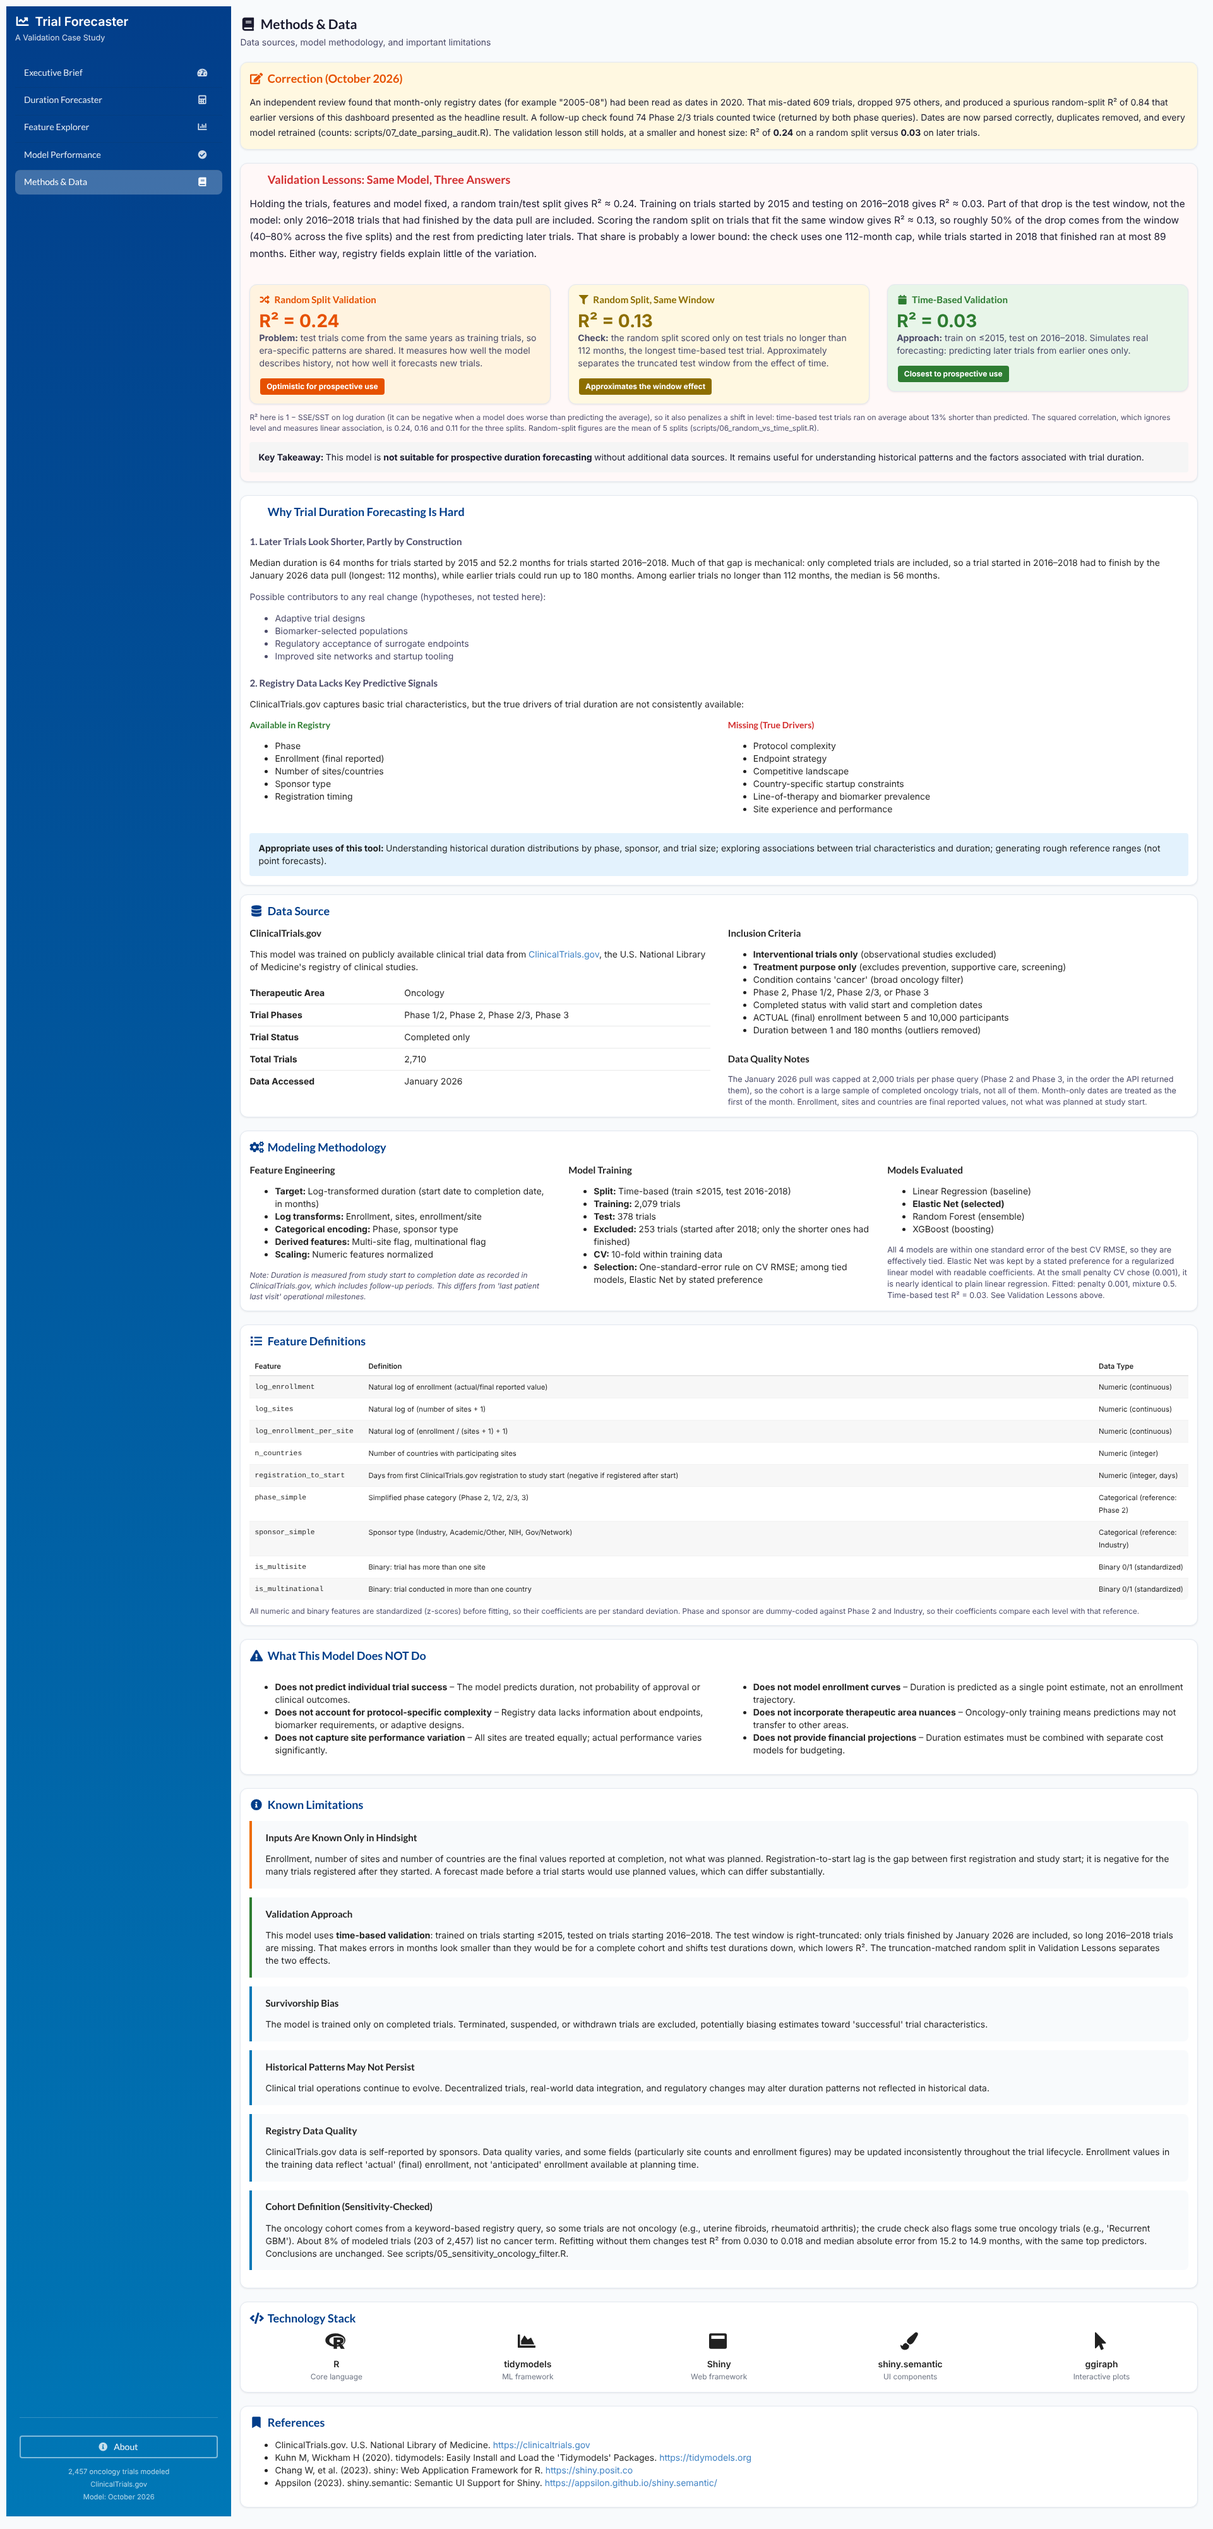
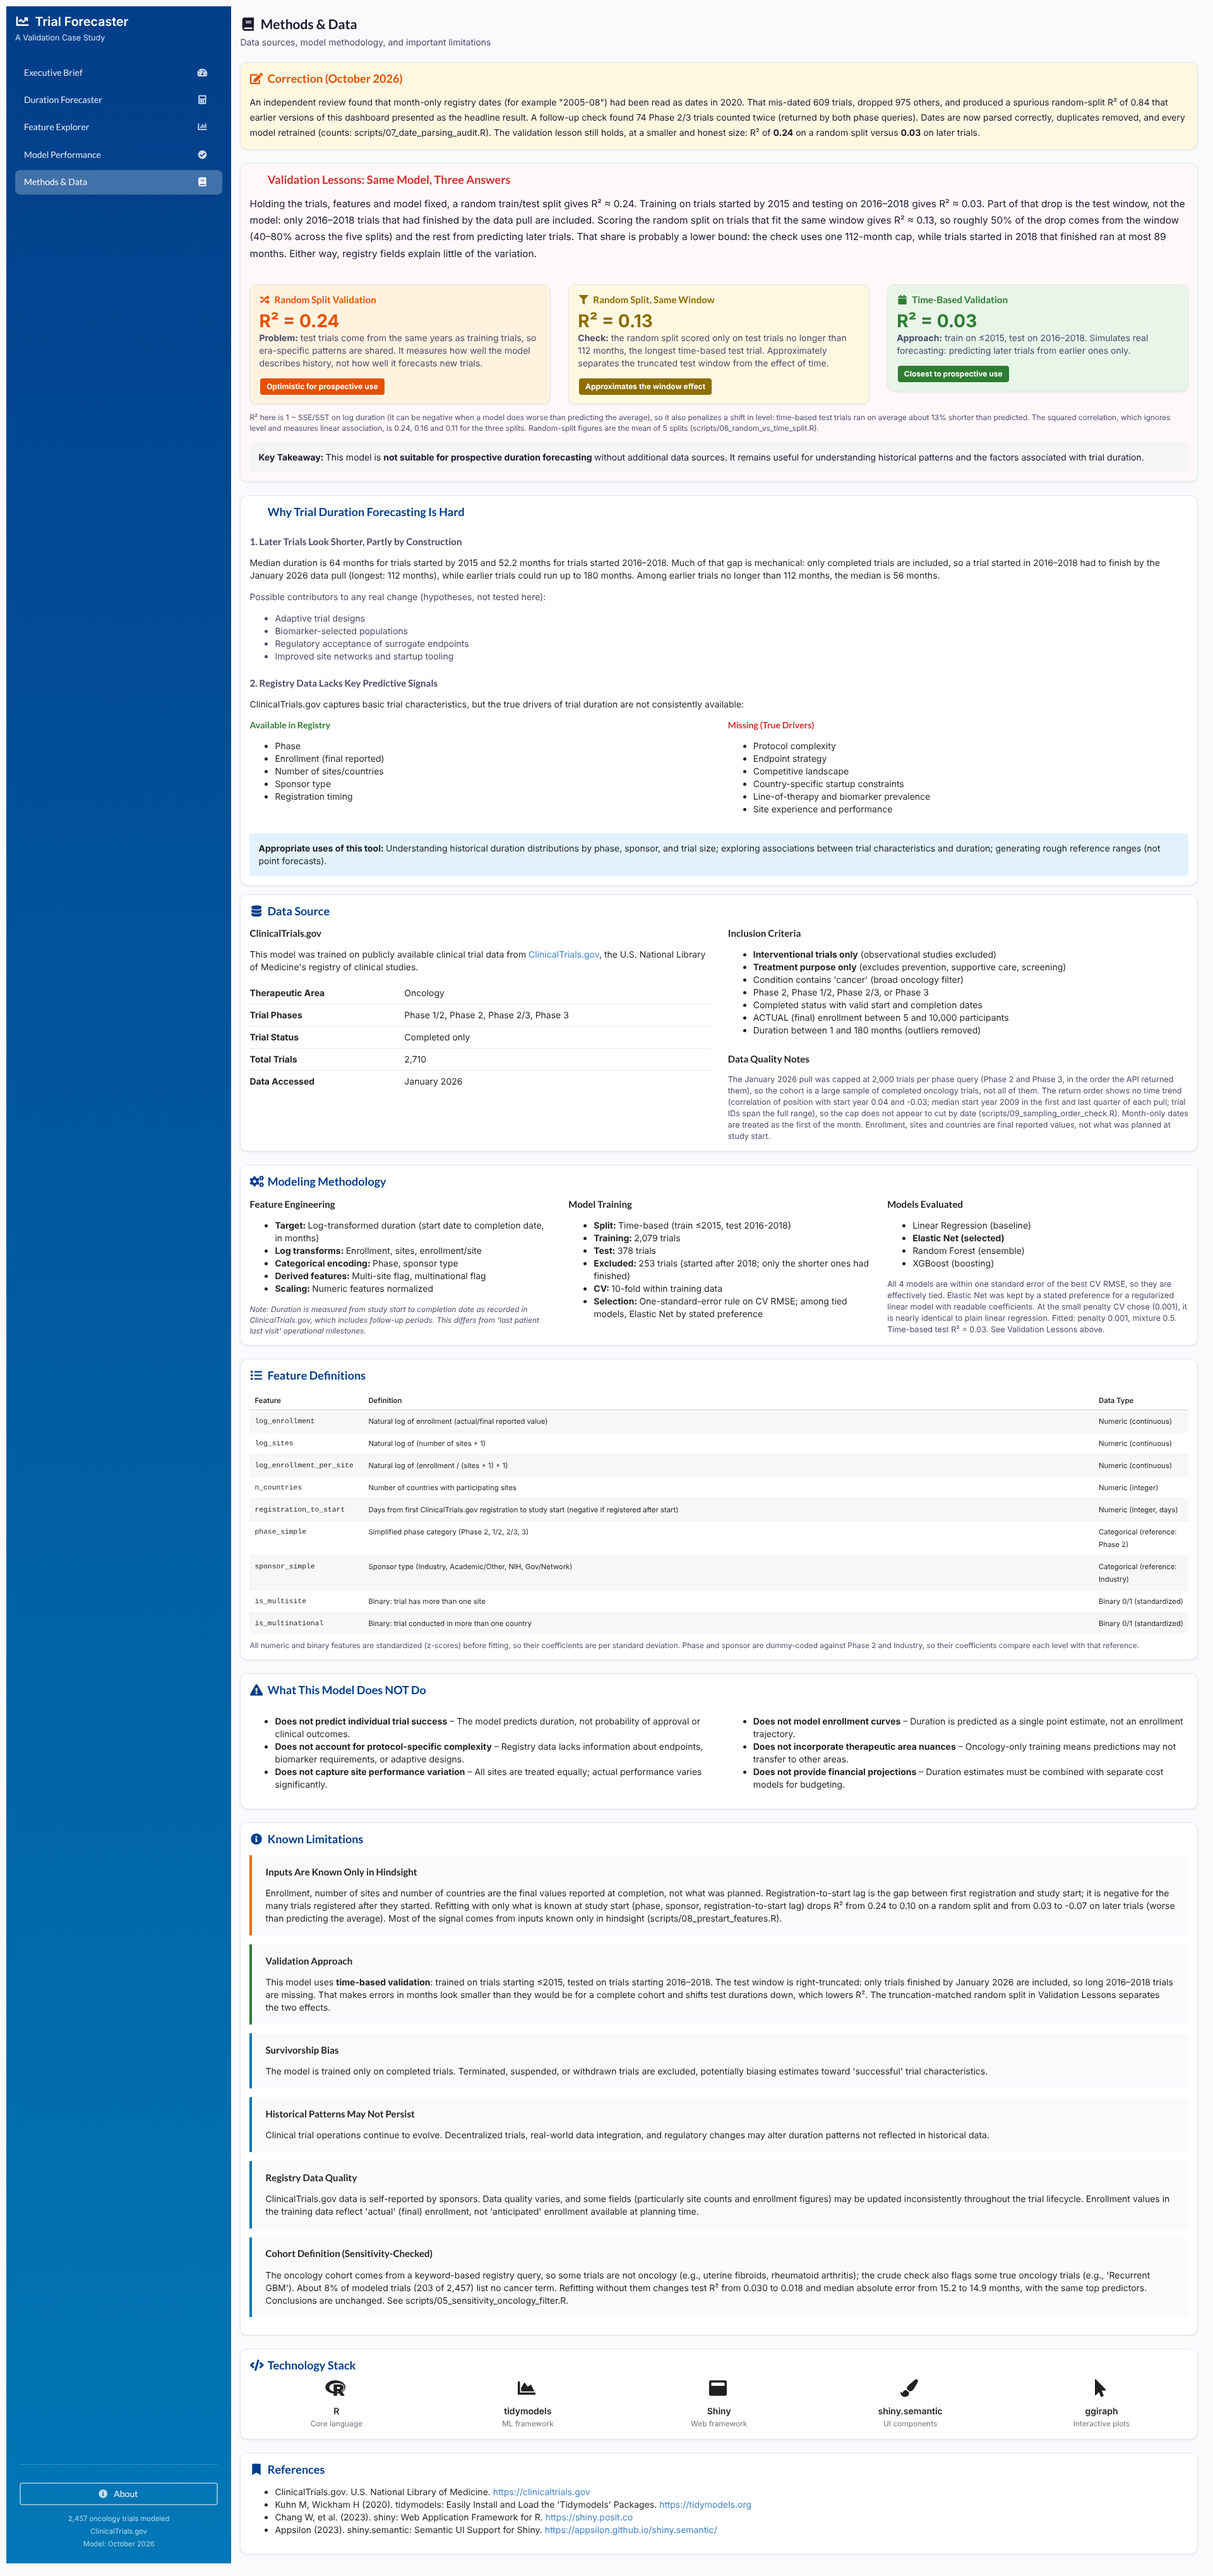
Add pre-start and sampling checks; rename scripts; add run_all
From the hiring-manager review:
- scripts/08: refit with only features known at study start (phase,
  sponsor, registration-to-start lag). R² falls from 0.24 to 0.10 on a
  random split and from 0.03 to -0.07 on later trials: most of the
  signal comes from hindsight inputs. Replaces the Executive Brief
  phase finding; added to Methods and README.
- scripts/09: the API's return order shows no time trend within either
  2,000-trial pull, so the cap does not appear to cut by date.
- Rename 01 -> 01_api_connection_test.R, 02 -> 02_download_and_clean.R.
- scripts/run_all.R rebuilds every artifact (02-09), each script in its
  own R process. A full run reproduced every results file exactly.
- README contact title.

Claude-Session: https://claude.ai/code/session_01PHbzNLkh3D37aanqfshCbx

diff --git a/README.md b/README.md
@@ -148,7 +148,7 @@ All four are within one standard error of the best on RMSE, so they are effectiv
 -   Registry fields are self-reported and updated over time
 -   Historical snapshots are not available in this build
 -   Oncology cohort defined via keyword-based registry fields (imperfect)
--   The January 2026 pull was capped at 2,000 trials per phase query (Phase 2 and Phase 3, in API order), so the cohort is a large sample of completed oncology trials, not all of them
+-   The January 2026 pull was capped at 2,000 trials per phase query (Phase 2 and Phase 3, in API order), so the cohort is a large sample of completed oncology trials, not all of them The API's return order shows no time trend within either pull (correlation of position with start year 0.04 and −0.03; median start year 2009 in the first and last quarter of each), so the cap does not appear to cut by date (`scripts/09_sampling_order_check.R`). The full registry population was not re-counted.
 
 ------------------------------------------------------------------------
 
@@ -166,7 +166,7 @@ All four are within one standard error of the best on RMSE, so they are effectiv
 
 -   Oncology cohort defined via keyword-based registry fields (imperfect). About 8% of modeled trials (203 of 2,457) list no cancer term in their conditions field. Refitting without them changes test R² from 0.030 to 0.018 and median absolute error from 15.2 to 14.9 months; conclusions are unchanged (`scripts/05_sensitivity_oncology_filter.R`).
 -   Registry fields are self-reported and updated over time
--   Inputs (actual enrollment, sites, countries) are final values, known only once a trial is under way or finished
+-   Inputs (actual enrollment, sites, countries) are final values, known only once a trial is under way or finished. With only what is known at study start (phase, sponsor, registration-to-start lag), R² falls from 0.24 to 0.10 on a random split and from 0.03 to −0.07 on later trials (`scripts/08_prestart_features.R`): most of the signal comes from hindsight inputs
 -   Limited prospective predictive power (time-based R² ≈ 0.03)
 -   Each Phase 2/3 trial is counted once; the API pull was split by phase, and duplicates across queries are removed
 -   Survivorship and right-truncation bias (completed trials only; long recent trials are missing)
@@ -195,7 +195,9 @@ clinical-trial-forecaster/
 │   │   ├── test_predictions.csv
 │   │   ├── split_comparison.csv            # random vs time-based split (script 06)
 │   │   ├── sensitivity_oncology_filter.csv # cohort sensitivity check (script 05)
-│   │   └── date_parsing_audit.csv          # counts behind the correction note (script 07)
+│   │   ├── date_parsing_audit.csv          # counts behind the correction note (script 07)
+│   │   ├── prestart_comparison.csv         # pre-start-only features (script 08)
+│   │   └── sampling_order_check.csv        # API return-order check (script 09)
 │   ├── data-raw/
 │   │   ├── modeling/            # Feature table read by the app
 │   │   └── cache/               # Jan 2026 ClinicalTrials.gov snapshot (not deployed)
@@ -204,13 +206,16 @@ clinical-trial-forecaster/
 │       └── styles.css
 ├── scripts/                     # Data pipeline
 │   ├── 00_setup.R
-│   ├── 01_data_acquisition.R
-│   ├── 02_data_exploration.R
+│   ├── run_all.R                # rebuilds every app artifact (02-09)
+│   ├── 01_api_connection_test.R
+│   ├── 02_download_and_clean.R
 │   ├── 03_feature_engineering.R
 │   ├── 04_modeling.R
 │   ├── 05_sensitivity_oncology_filter.R
 │   ├── 06_random_vs_time_split.R
-│   └── 07_date_parsing_audit.R
+│   ├── 07_date_parsing_audit.R
+│   ├── 08_prestart_features.R
+│   └── 09_sampling_order_check.R
 └── screenshots/
 ```
 
@@ -243,7 +248,7 @@ It does not constitute clinical, operational, or planning advice. All parameters
 
 ## Contact
 
-**Steven Ponce** Data Analyst \| R Shiny Developer \| Business Intelligence Specialist
+**Steven Ponce** Senior Manager, Clinical Analytics & Centralized Monitoring \| R & Shiny
 
 🔗 **Portfolio Website**: [stevenponce.netlify.app](https://stevenponce.netlify.app/projects.html) 🐙 **GitHub**: [\@poncest](https://github.com/poncest) 💼 **LinkedIn**: [stevenponce](https://www.linkedin.com/in/stevenponce/) 🦋 **Bluesky**: [\@sponce1](https://bsky.app/profile/sponce1.bsky.social)
 
